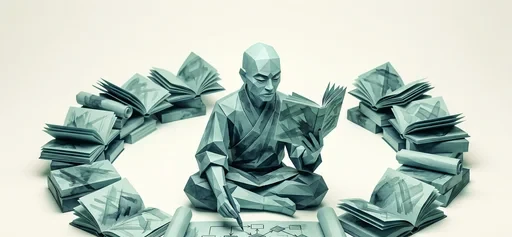
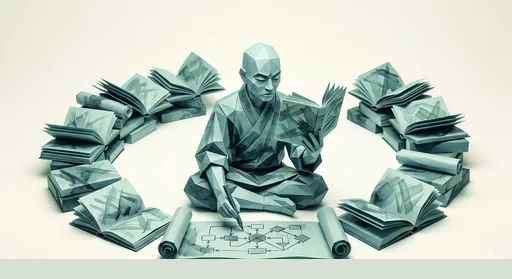
修复: 情绪稳定维度描述错位 + 去除图片水印
- 修复: N维度描述查找用原始分数而非反转值，避免33分显示"波澜不惊"
- 去除: 20张图片底部 Gemini 水印（背景色填充覆盖）
- 恢复: 图片为未裁切版本（512x279）

diff --git a/src/components/player/QuizResult.tsx b/src/components/player/QuizResult.tsx
@@ -132,7 +132,7 @@ export function QuizResult({ scores, personalityType, dimensions: dimConfig, typ
                 />
               </div>
               {(() => {
-                const desc = getDimDescription(dim.key, dim.value, dimConfig)
+                const desc = getDimDescription(dim.key, dim.key === "N" ? scores.N : dim.value, dimConfig)
                 return desc ? <p className="text-xs text-muted-foreground">{desc}</p> : null
               })()}
             </div>
